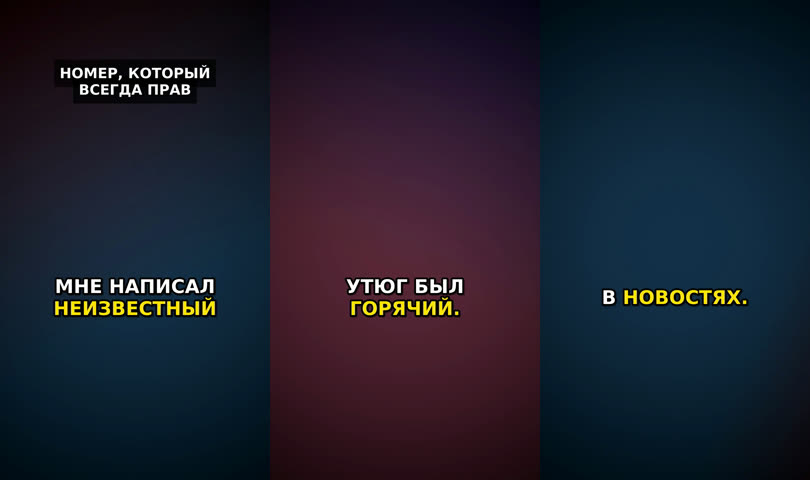
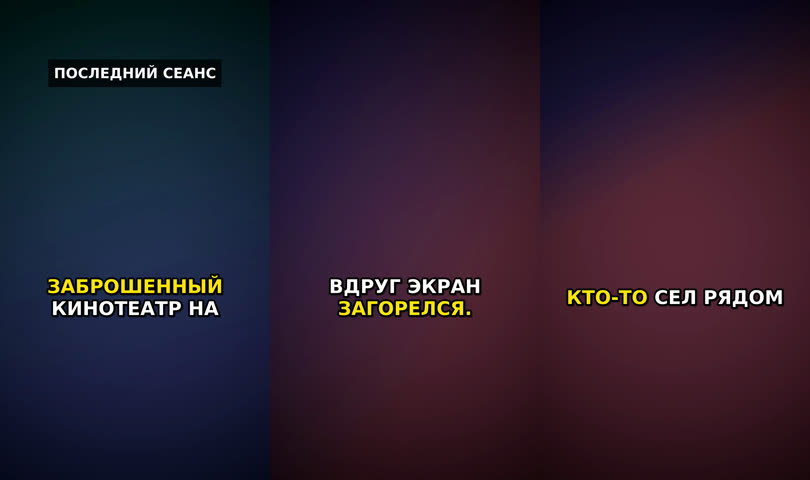
bot: публикация 2026-11-24_0239

diff --git a/reports/latest.md b/reports/latest.md
@@ -1,6 +1,6 @@
-# Отчёт ИИ-блогера — 2026-11-23 18:27 UTC
+# Отчёт ИИ-блогера — 2026-11-24 02:39 UTC
 
-Опубликовано ботом: **5**, суммарно просмотров: **0**
+Опубликовано ботом: **6**, суммарно просмотров: **0**
 
 ## Темы
 | Тема | Роликов | Ср. просмотры |
@@ -13,6 +13,7 @@
 ## Последние ролики
 | Дата | Название | Просм. | Лайки | Комм. | Репосты |
 |---|---|---|---|---|---|
+| 2026-11-24T02:39 | Последний сеанс | — | — | — | — |
 | 2026-11-23T18:27 | Номер, который всегда прав | — | — | — | — |
 | 2026-11-22T21:20 | Следы на крыльце | — | — | — | — |
 | 2026-11-22T14:45 | Шкафчик с моим именем | — | — | — | — |
